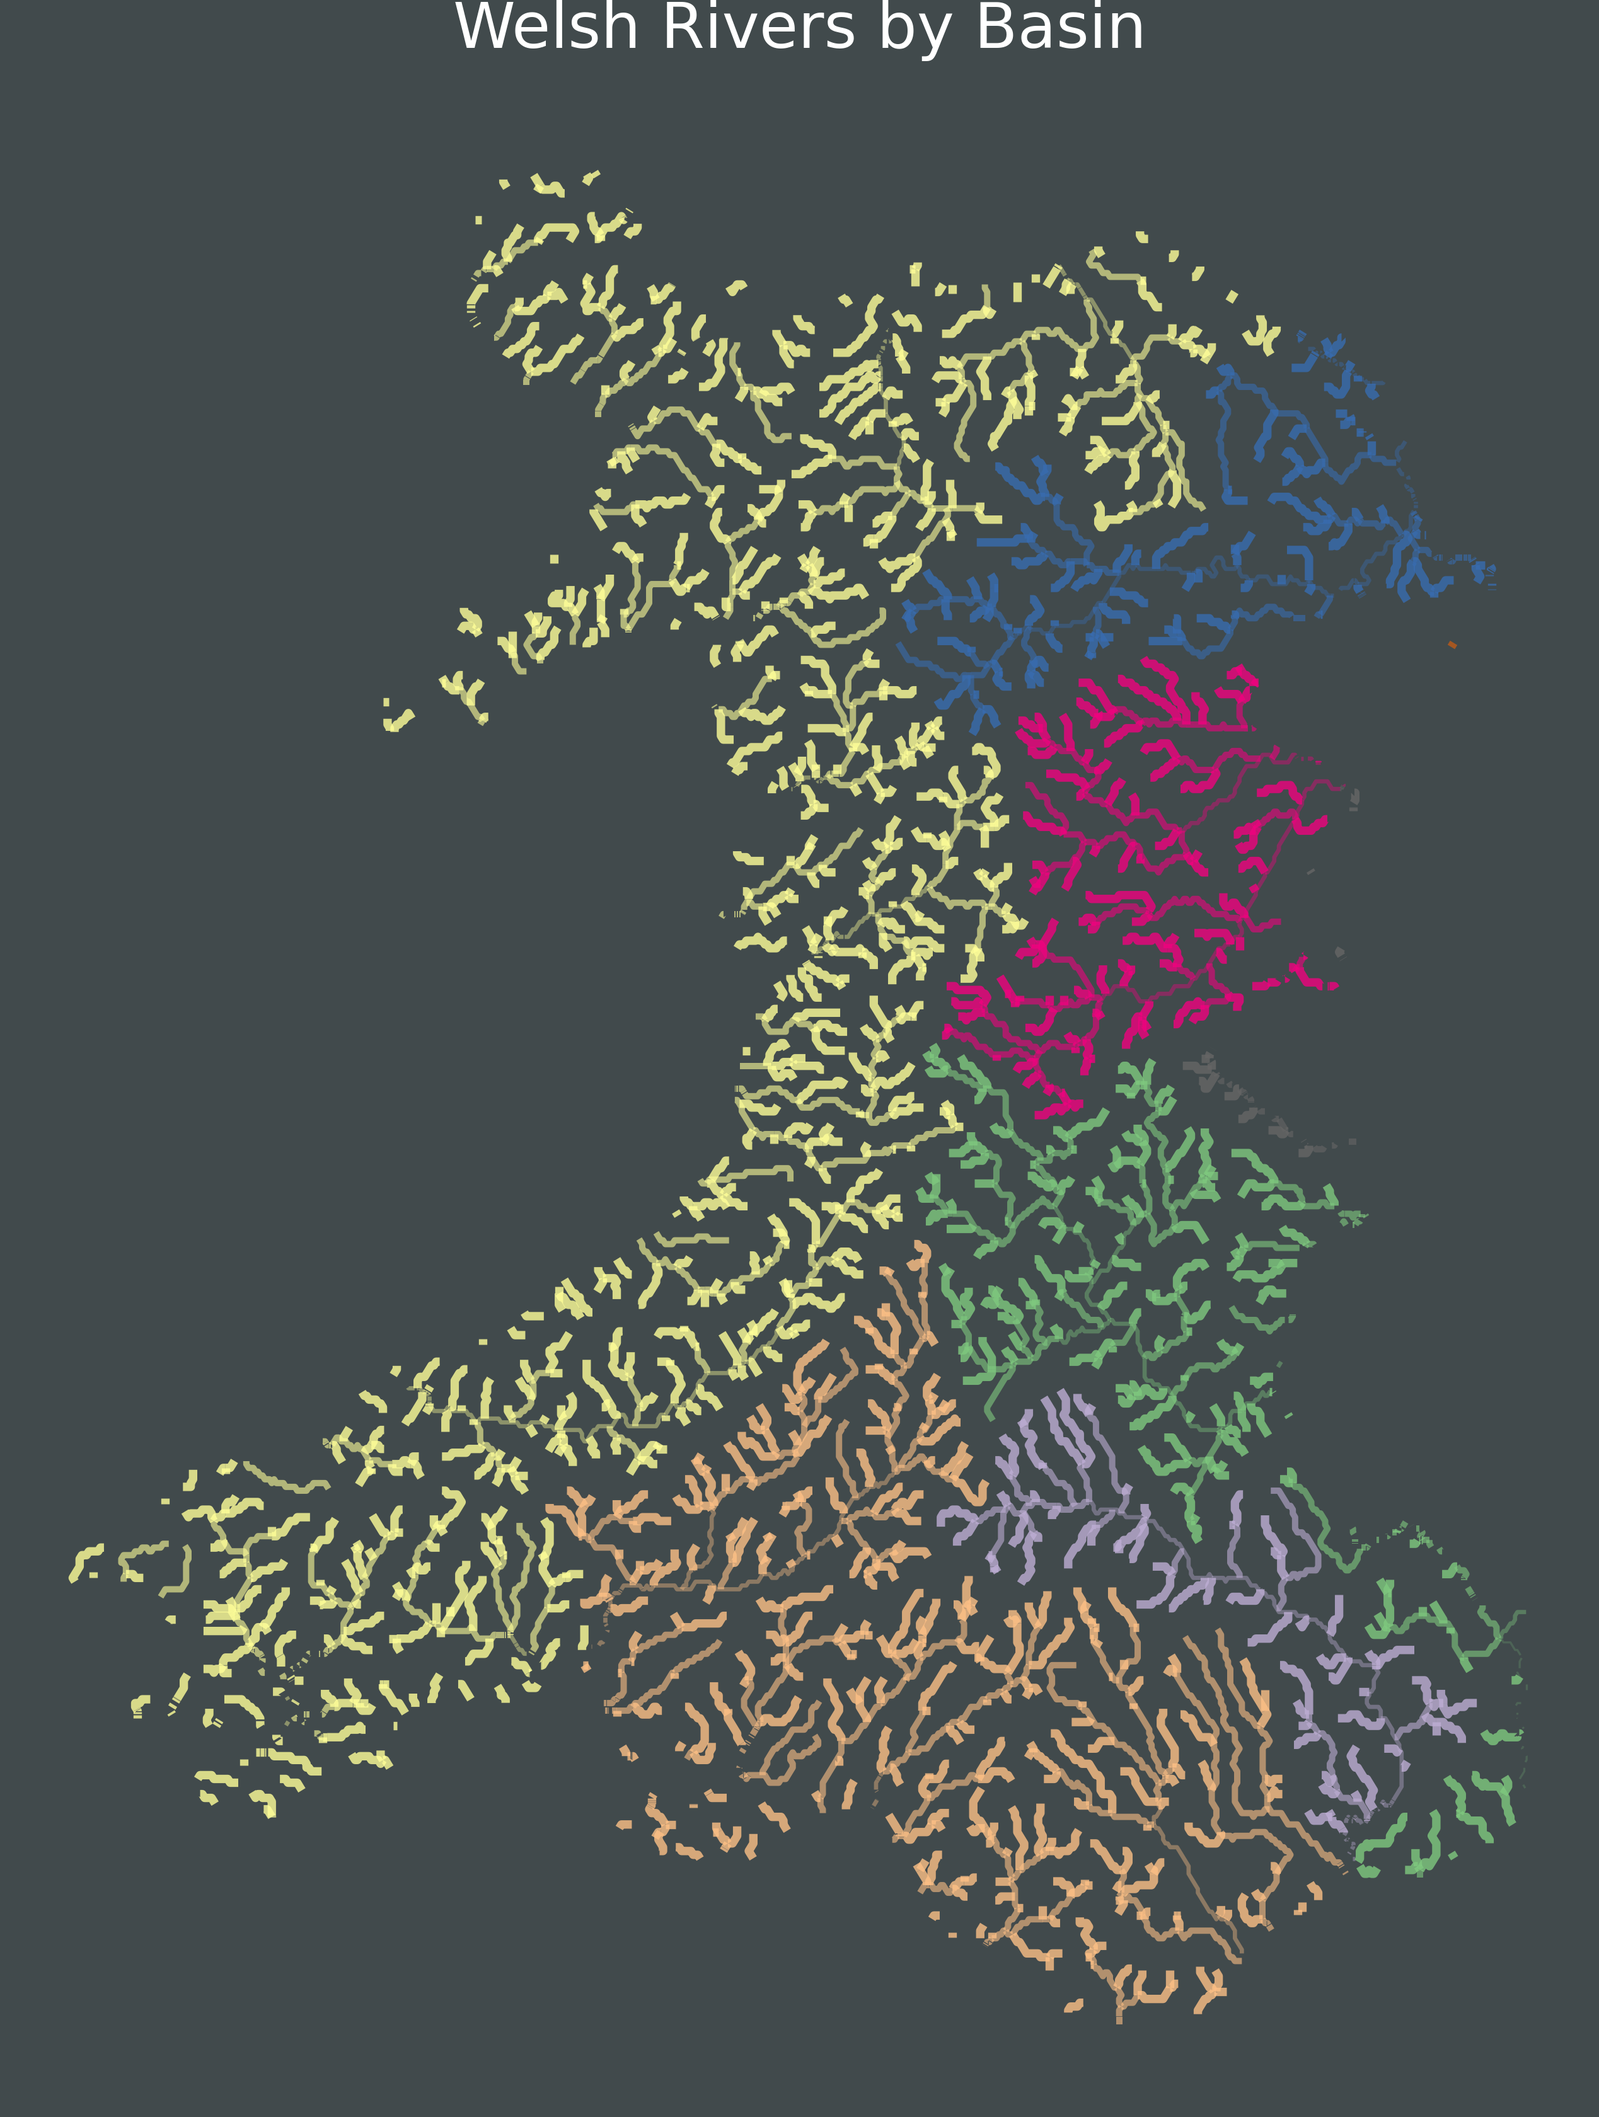
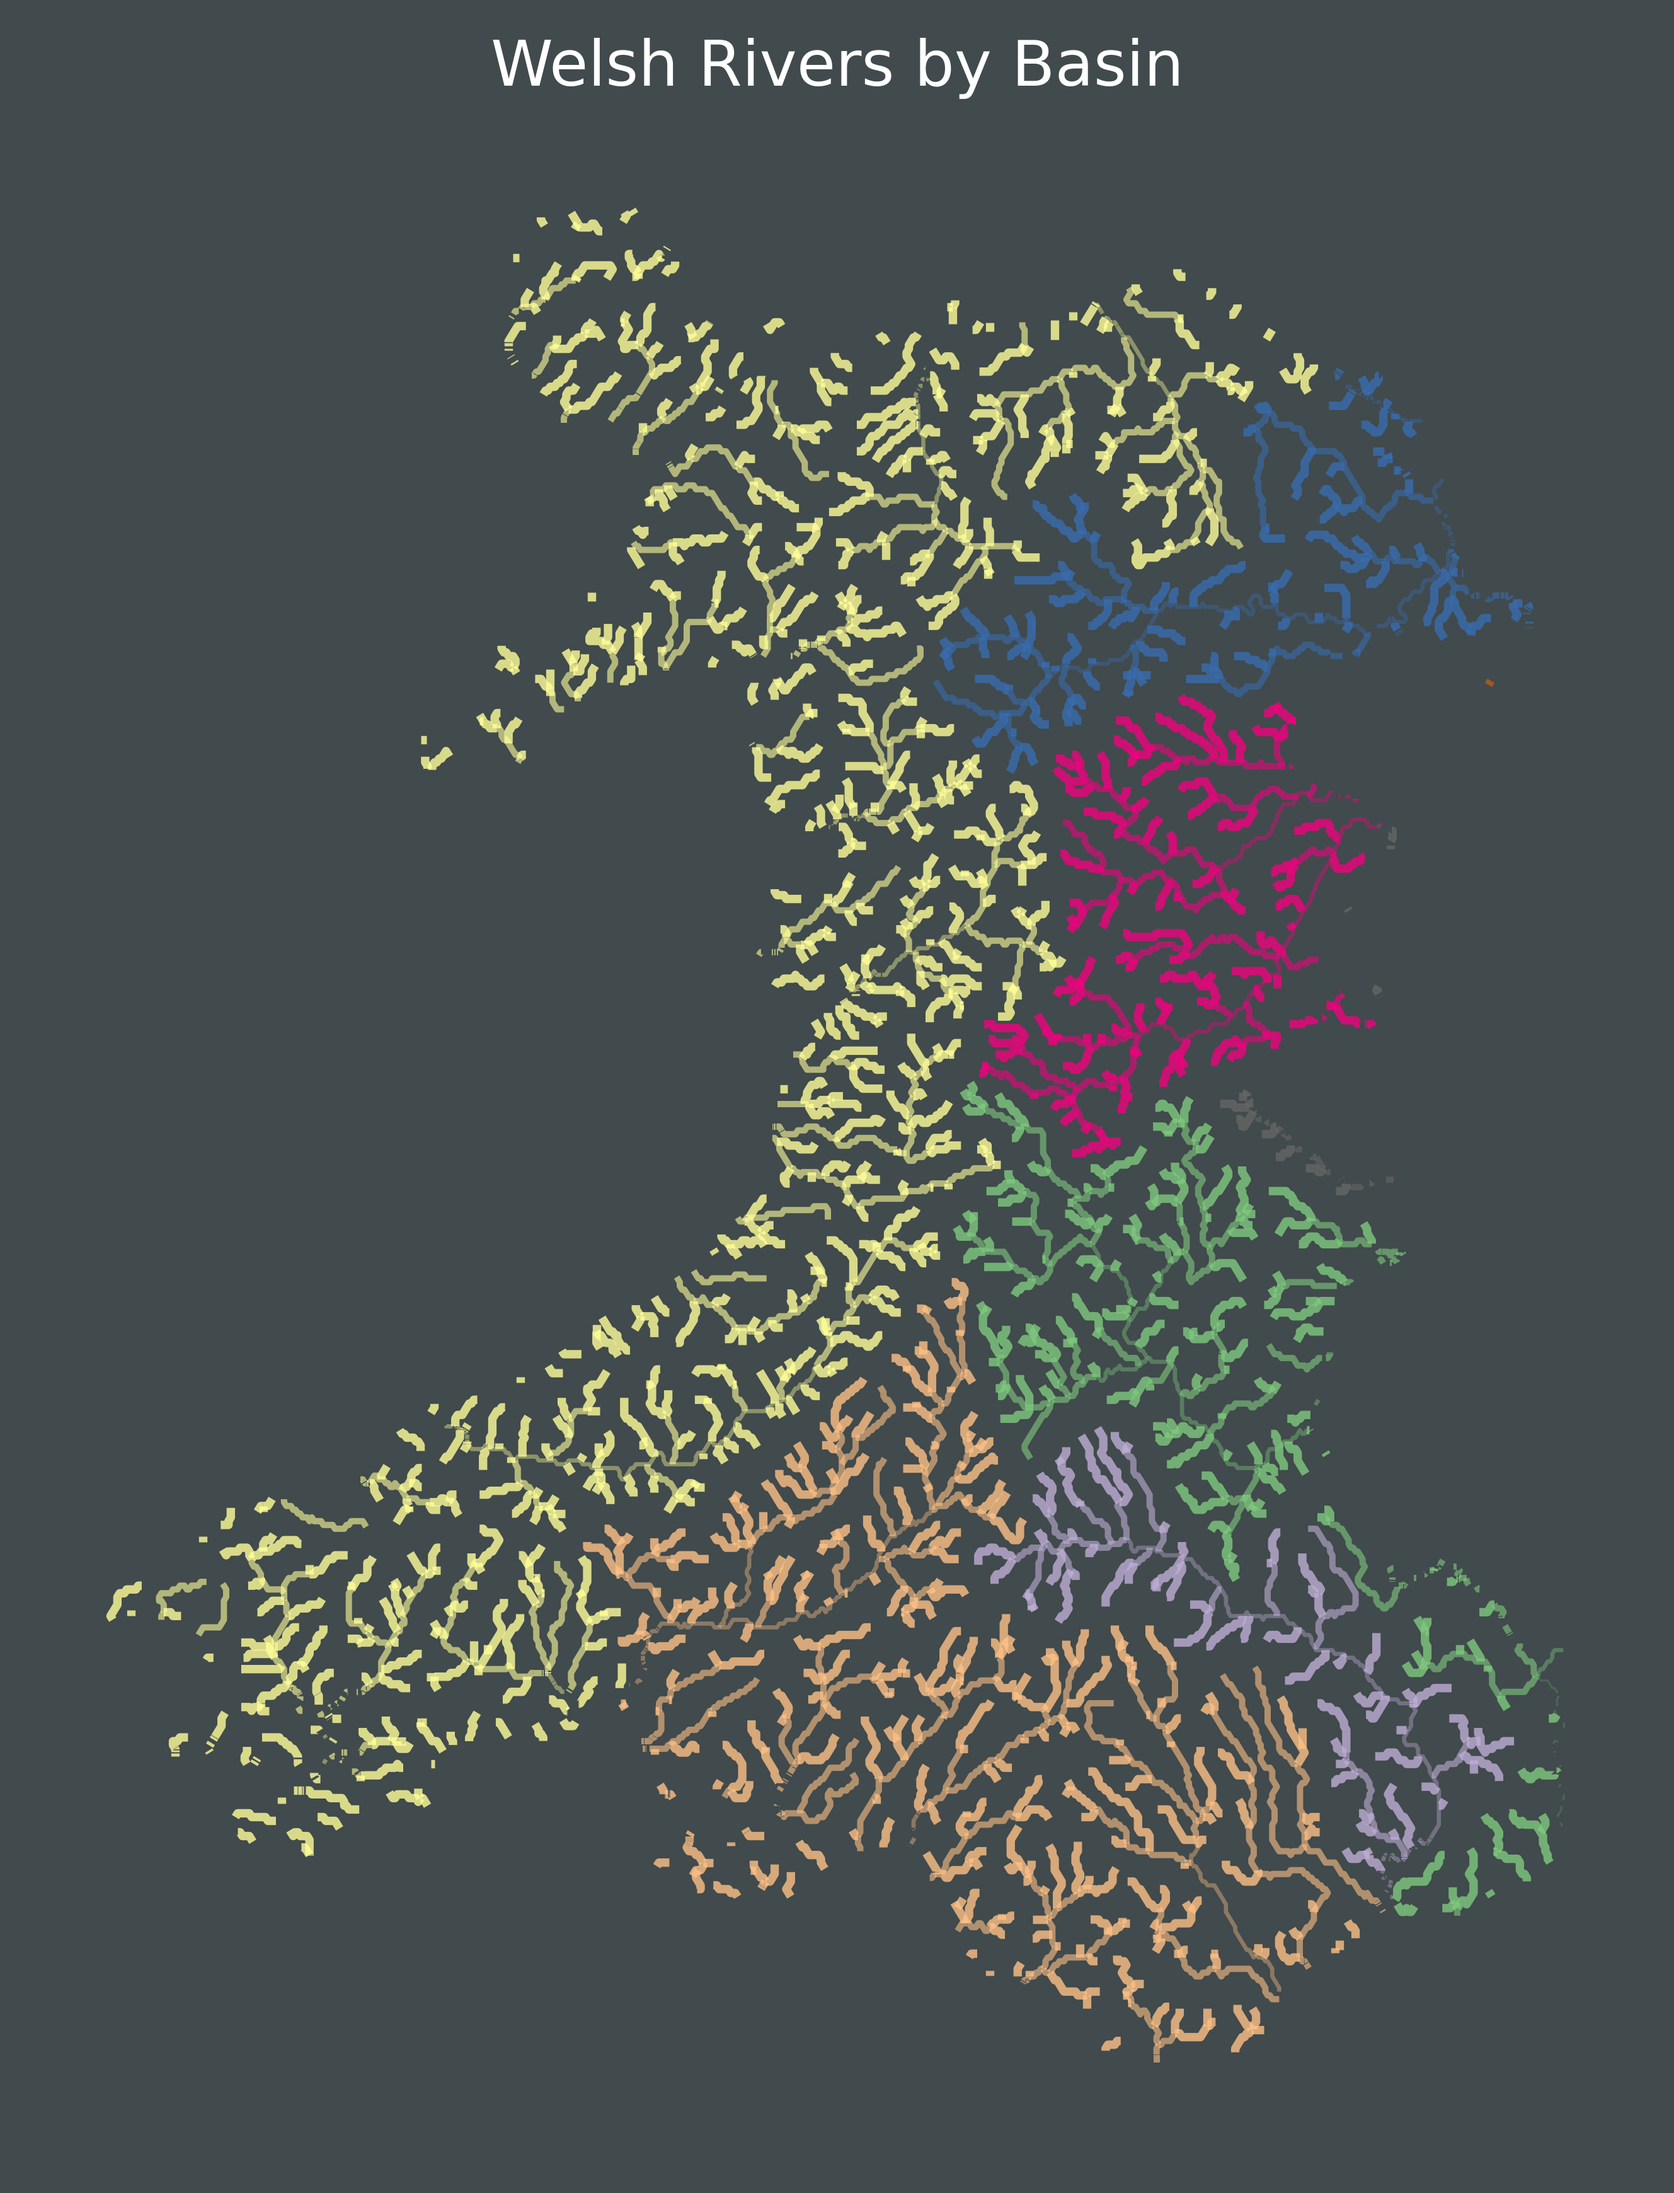
refactor: Padding around image

Changed region(s): [[0.0311, 0.0625, 0.9653, 0.9688], [0.2803, 0.0, 0.7162, 0.0625]]

diff --git a/src/mapping/map-rivers-by-basins.py b/src/mapping/map-rivers-by-basins.py
@@ -67,8 +67,7 @@ def map_rivers(
     # basins.boundary.plot()
     if plt_pth:
         plt.savefig(
-            plt_pth, dpi=600, bbox_inches="tight", pad_inches=0,
-            # transparent=True
+            plt_pth, dpi=600, bbox_inches="tight", pad_inches=0.1,
             )
     else:
         plt.show()
